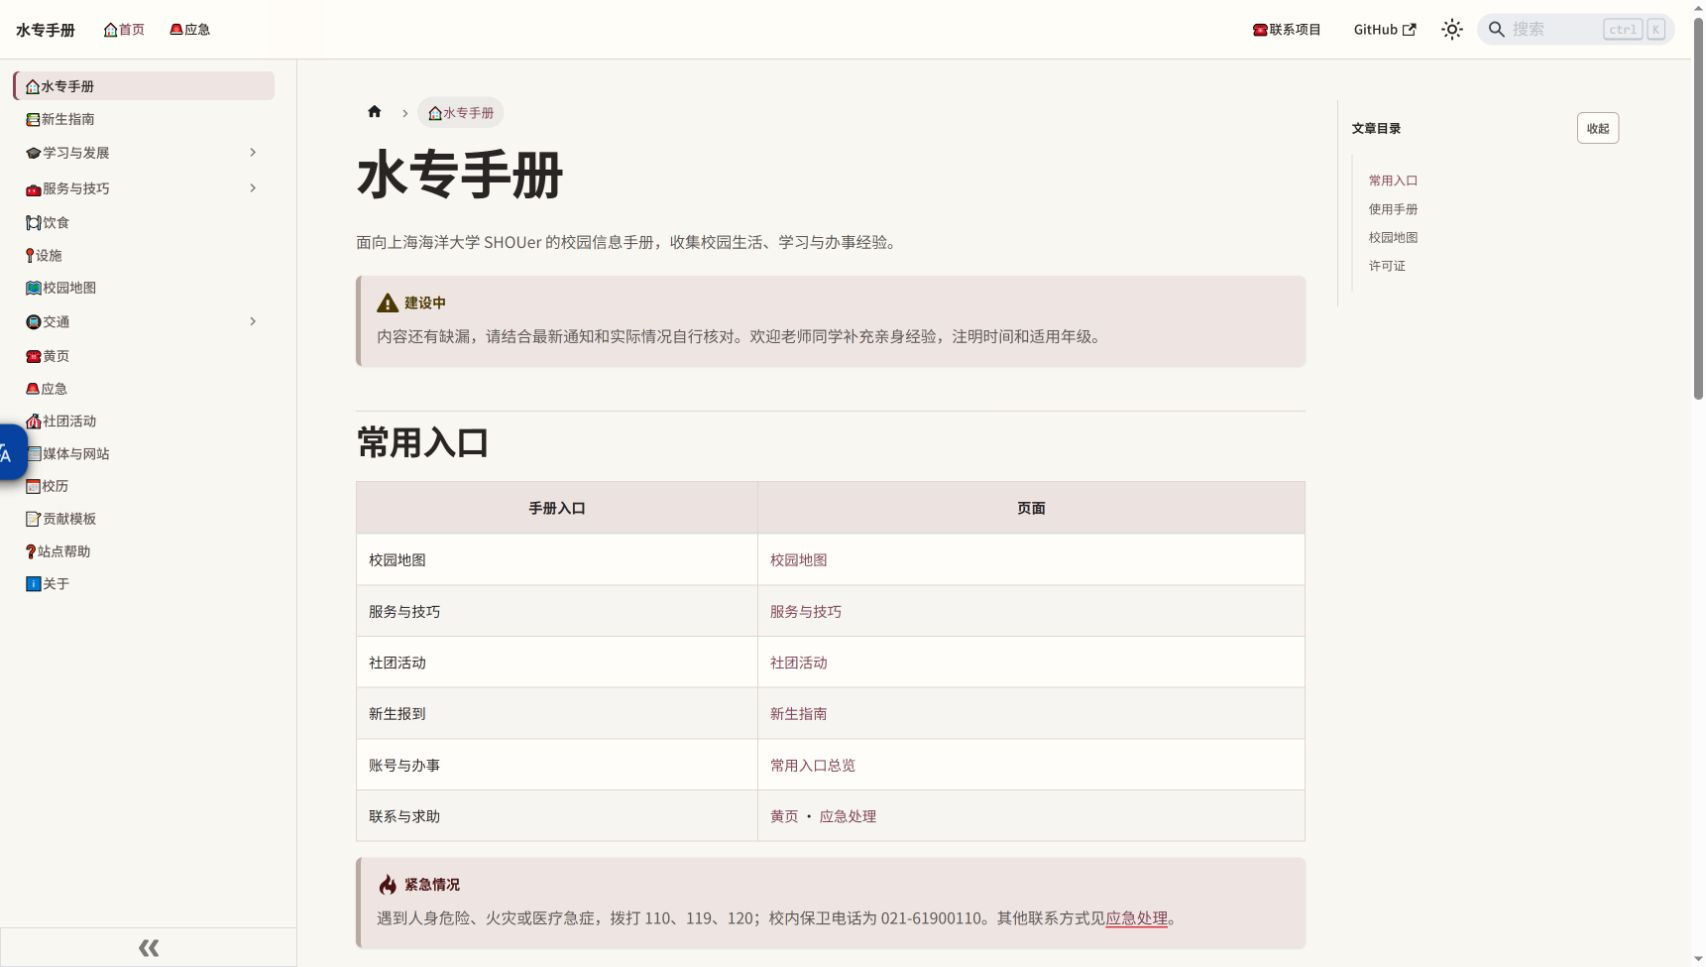
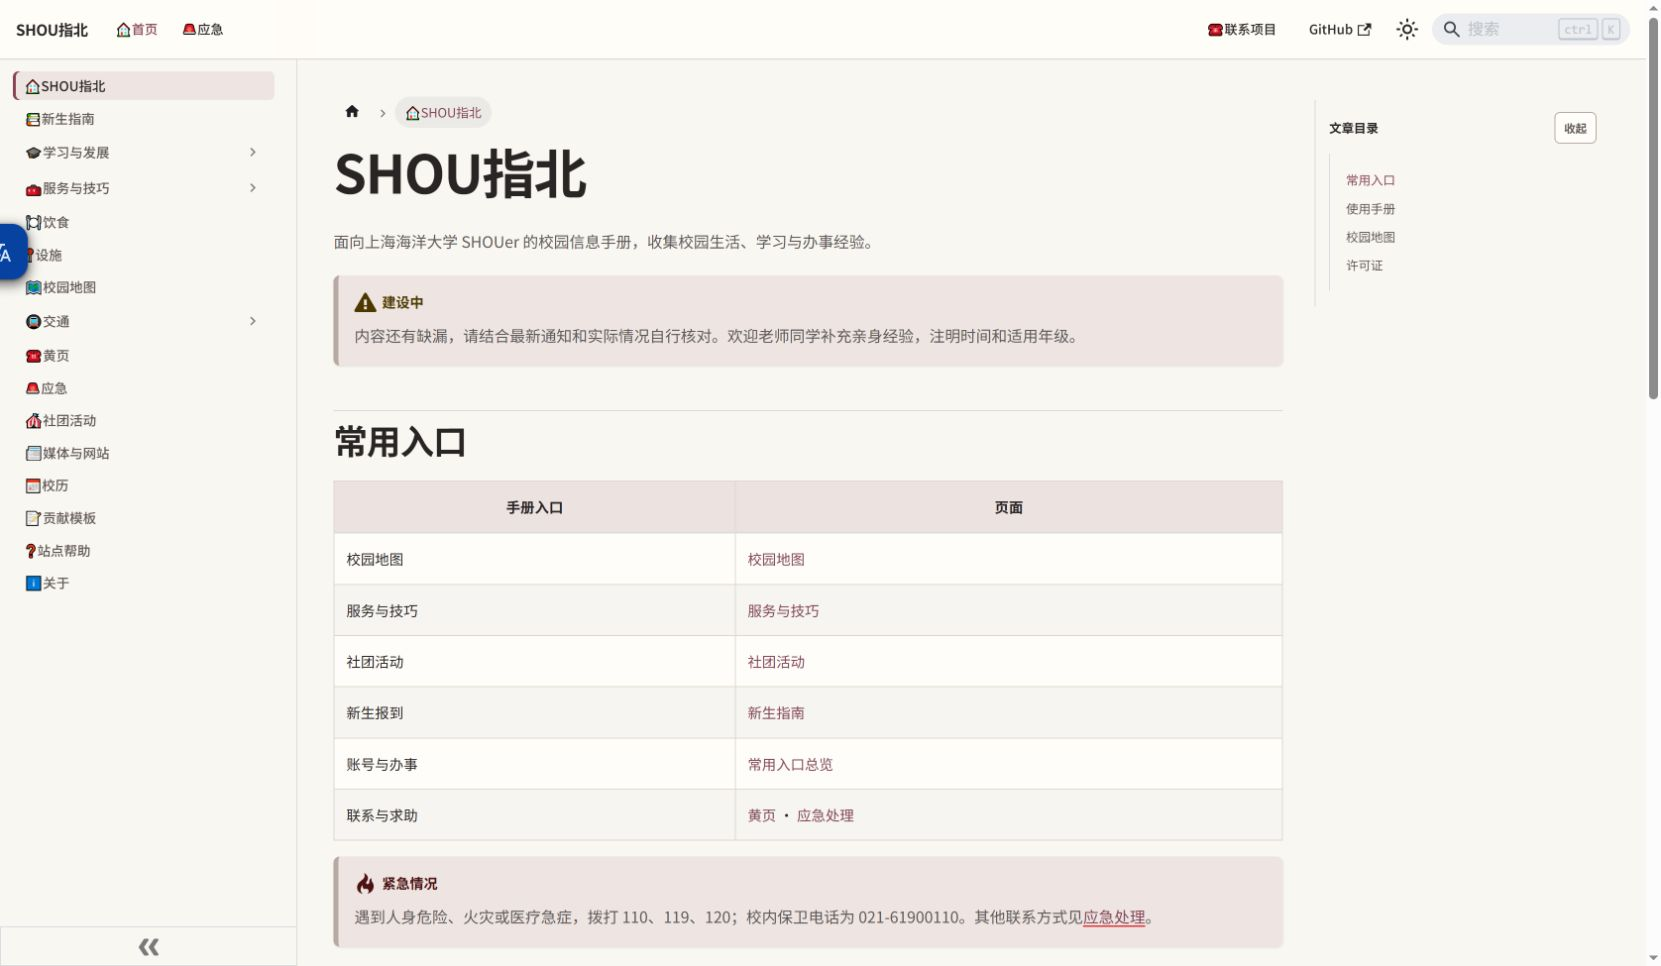
docs: 更新社团维护项目与校园网站信息

diff --git a/docusaurus.config.js b/docusaurus.config.js
@@ -129,16 +129,20 @@ const config = {
                 href: 'https://note.peteralbus.com/',
               },
               {
-                label: '水专手册',
+                label: '水专手册 · SHOU指北',
                 href: 'https://manual.shoumc.com/',
               },
               {
-                label: '今天吃什么',
+                label: '今日海大吃什么',
                 href: 'https://eat.shoumc.com/',
               },
               {
-                label: '来选课',
+                label: '来选课 · SHOU LXK',
                 href: 'https://lxk.shoumc.com/',
+              },
+              {
+                label: '社团统一账号',
+                href: 'https://auth.shoumc.com/',
               },
             ],
           },

diff --git a/sidebars.js b/sidebars.js
@@ -34,11 +34,14 @@ const sidebars = {
       collapsed: true,
       items: [
         'community/community-index',
-        'community/pcl-ce-shou',
-        'community/shou-campus',
+        'community/club-website',
         'community/shou-freshman-manual',
         'community/what-to-eat',
         'community/shou-laixk',
+        'community/shou-auth',
+        'community/pcl-ce-shou',
+        'community/shou-connect',
+        'community/shou-campus',
         'community/paper-ysm',
         'community/discord-bot',
       ],

diff --git a/docs/community/index.md b/docs/community/index.md
@@ -4,28 +4,37 @@ slug: /community
 title: 社团资源
 sidebar_label: 社团资源总览
 sidebar_position: 1
-description: 潮涌核心社成员维护或创造的插件、服务与 Minecraft 作品总览。
+description: 潮涌核心社维护的校园网站、启动器、网络工具、插件与 Minecraft 作品总览。
 ---
 
 # 社团资源
 
-这里集中收录潮涌核心社成员维护、创造或在组织中协作保存的项目，包括公开作品，以及允许对外介绍的组织内部项目。每个项目都有独立详情页，便于后续继续补充版本、截图和使用说明。
+这里集中收录潮涌核心社维护的校园网站、Minecraft 工具和作品。每个项目都有独立详情页，可以查看用途、访问方式、源码与当前限制。
 
-## 站点入口迁移
+本页于 **2026-10-15** 根据[组织公开仓库](https://github.com/orgs/Conduit-Club/repositories?type=public)及线上页面核对。源码功能与线上开放范围可能不同，下载和使用时请结合项目说明。
 
-社团主站现在使用 [shoumc.com](https://shoumc.com/)，打开后会保留路径和参数并跳转到站点页面。[www.shoumc.com](https://www.shoumc.com/) 保留为官网副本。服务器连接请优先使用 `smp.shoumc.com`、`create.shoumc.com` 和 `shou.shoumc.com`。详见[2026.10.02 域名迁移记录](../updates/2026-10-02/)。
+## 校园网站与服务
 
-常用社团服务也已统一到新域名： [今天吃什么](https://eat.shoumc.com/)、[水专手册](https://manual.shoumc.com/)、[来选课](https://lxk.shoumc.com/)、[BlueMap 地图](https://map.shoumc.com/) 和 [Artalk 评论入口](https://comments.shoumc.com/)。各项目页面会继续说明具体用途和当前状态。
+| 项目 | 用途 | 在线入口 |
+| --- | --- | --- |
+| [社团官网与服务器档案](./club-website) | 四服介绍、命令、项目资源与服务器更新 | [官网](https://www.shoumc.com/) · [文档镜像](https://wiki.shoumc.com/) |
+| [水专手册（SHOU指北）](./shou-freshman-manual) | 校园生活、学习、办事信息与交互地图 | [manual.shoumc.com](https://manual.shoumc.com/) |
+| [今日海大吃什么](./what-to-eat) | 校园及周边餐饮、随机推荐与用餐分享 | [eat.shoumc.com](https://eat.shoumc.com/) |
+| [来选课（SHOU LXK）](./shou-laixk) | 课程、教师与同学点评查询 | [lxk.shoumc.com](https://lxk.shoumc.com/) |
+| [社团统一账号](./shou-auth) | 校园服务共用的登录与账号资料入口 | [auth.shoumc.com](https://auth.shoumc.com/) |
 
-## 项目列表
+## 客户端与网络工具
 
-- [PCL-CE-SHOU 社团启动器](./pcl-ce-shou)：正在开发的 PCL-CE 社团版启动器，提供下载入口与当前登录说明。
-- [SHOU 校园还原工程](./shou-campus)：Minecraft 校园建筑与世界存档。
-- [水专手册](./shou-freshman-manual)：校园生活与常用信息指南，[在线阅读](https://manual.shoumc.com/)。
-- [今天吃什么](./what-to-eat)：校园及周边餐饮、同学评价与投稿，[在线使用](https://eat.shoumc.com/)。
-- [来选课](./shou-laixk)：由其他维护者维护的课程与教师评价服务，[访问入口](https://lxk.shoumc.com/)；社团同时维护相关分析与归档资料。
+- [SHOU-PCL 社团启动器](./pcl-ce-shou)：基于 PCL-CE 独立维护的 Windows x64 启动器，提供账户与游戏实例管理、社团入口及更新提醒。
+- [SHOUConnect](./shou-connect)：面向海大校园网络访问的图形客户端，基于 EZ4Connect 等开源项目改编；组织仓库尚无公开发行包。
+
+## Minecraft 作品与社区工具
+
+- [SHOU 校园还原工程](./shou-campus)：Minecraft 校园建筑作品与在线漫游。
 - [Paper-YSM](./paper-ysm)：Paper 服务端的 Yes Steve Model 分发原型。
 - [Discord 娱乐机器人](./discord-bot)：Discord Bot、FastAPI 控制台与 Minecraft 聊天桥。
+
+配套入口：[BlueMap 在线地图](https://map.shoumc.com/) · [Artalk 评论入口](https://comments.shoumc.com/)。服务器连接与跨服命令见[服务器总览](../../server/)，域名迁移历史见[2026.10.02 更新记录](../../updates/2026-10-02/)。
 
 ## 提交项目
 

diff --git a/docs/community/shou-laixk.md b/docs/community/shou-laixk.md
@@ -1,32 +1,37 @@
 ---
 id: shou-laixk
 slug: /community/shou-laixk
-title: 来选课
-sidebar_label: 来选课
+title: 来选课 · SHOU LXK
+sidebar_label: 来选课 · SHOU LXK
 sidebar_position: 5
-description: 上海海洋大学课程与教师评价查询入口，以及来选课结构分析与归档资料。
+description: 潮涌核心社维护的上海海洋大学课程、教师与点评网站，提供查询、统一账号登录与目录补充入口。
 ---
 
-# 来选课
+# 来选课 · SHOU LXK
 
-来选课提供上海海洋大学课程与教师评价查询，可按课程、教师等条件查找内容，参考其他同学分享的学习体验。
+SHOU LXK 是潮涌核心社维护的上海海洋大学课程评价网站，可查询课程、教师与同学点评，分享课堂体验。
 
 - **访问入口**：[lxk.shoumc.com](https://lxk.shoumc.com/)
-- **原站入口**：[lxk.aaron212.com](https://lxk.aaron212.com/)
-- **相关资料仓库**：[Conduit-Club/StructureAnalysis-shou-laixk](https://github.com/Conduit-Club/StructureAnalysis-shou-laixk)
+- **项目仓库**：[Conduit-Club/SHOU-LXK](https://github.com/Conduit-Club/SHOU-LXK)
 
-当前社团访问入口为 `lxk.shoumc.com`；登录、注册会按页面提示跳转至原站。域名迁移说明见[2026.10.02 更新记录](../../updates/2026-10-02/)。
+当前网站已提供独立的课程、教师与点评目录，并接入[社团统一账号](../shou-auth/)。旧版访问入口与认证跳转说明仅作历史记录，使用时请从上述现行入口进入。
 
 ## 使用说明
 
-![来选课首页，展示课程搜索与热门课程列表](/img/screenshots/community/laixk.jpg)
+![SHOU LXK 首页，展示最新点评与站点概览](/img/screenshots/community/laixk.jpg)
 
-*2026-10-02 在线页面实拍，课程与评价数量以当前网站为准。*
+*2026-10-15 在线页面实拍，课程与评价数量以当前网站为准。*
 
-课程、教师、搜索与分页可在社团域名下浏览。登录、注册会进入原站认证服务，认证后回到原站继续操作。
+- [课程目录](https://lxk.shoumc.com/courses)：搜索课程名或课程号，按学院、类型、教师、学分等筛选，查看授课与点评。
+- [老师目录](https://lxk.shoumc.com/teachers)：搜索姓名，查看授课信息与相关点评。
+- [全站点评](https://lxk.shoumc.com/reviews)：搜索点评标题与正文，分页阅读同学体验。
+- 登录并设置用户名后提交点评，可选择匿名或展示账号用户名与头像。
+- 补充尚未收录的课程号与教师，普通用户的目录补充由管理员核实后公开。
 
 同学评价属于个人体验，课程安排、选课要求与考核方式请以学校及任课教师发布的信息为准。
 
-## 维护与资料
+## 参与维护
 
-在线服务由其他维护者维护，社团提供访问入口并维护相关分析、归档资料。上述组织仓库记录来选课的结构分析与数据归档工作；它与在线服务的维护职责有所区别。涉及账号或在线服务的问题，请通过原站提供的渠道联系维护者；资料仓库的问题可在对应 GitHub 仓库反馈。
+代码、功能与站点问题请在 [SHOU-LXK Issues](https://github.com/Conduit-Club/SHOU-LXK/issues)反馈。课程和教师目录可通过站内补充入口提交；分享课堂体验时，请尊重不同感受，避免公开他人的私人信息。
+
+本页于 2026-10-15 根据项目公开 README 与线上首页核对，功能开放范围以当前站点为准。

diff --git a/docs/community/pcl-ce-shou.md b/docs/community/pcl-ce-shou.md
@@ -1,29 +1,37 @@
 ---
 id: pcl-ce-shou
 slug: /community/pcl-ce-shou
-title: PCL-CE-SHOU 社团启动器
-sidebar_label: PCL-CE-SHOU 启动器
+title: SHOU-PCL 社团启动器
+sidebar_label: SHOU-PCL 启动器
 sidebar_position: 2
-description: 潮涌核心社正在开发的 PCL-CE 社团启动器版本与当前登录说明。
+description: 基于 PCL-CE 独立维护的 SHOU-PCL 启动器，提供 Windows x64 下载与账户、游戏实例管理说明。
 ---
 
-# PCL-CE-SHOU 社团启动器
+# SHOU-PCL 社团启动器
 
-[PCL-CE-SHOU](https://github.com/Conduit-Club/PCL-CE-SHOU) 是潮涌核心社正在开发的 PCL-CE 社团版启动器，目前已有版本可以在 Releases 下载。
+[SHOU-PCL](https://github.com/Conduit-Club/SHOU-PCL) 是潮涌核心社基于 PCL-CE 独立维护的 Minecraft 启动器，原名 PCL-CE-SHOU。它是独立第三方版本，保留上游作者署名与许可声明。
 
-## 项目进展
+## 主要功能
 
-启动器还在开发，目前主要在改进登录方式切换和更有潮涌核心社风格的界面，其他功能也会继续加入。
+- Microsoft、MUA Union、LittleSkin 账户管理与角色切换。
+- 游戏实例管理、社团入口选择与更新日志提醒。
+- 社团首页、实景轮播、主题和在线人数显示。
 
 ## 当前下载与登录
 
-- **项目仓库**：[Conduit-Club/PCL-CE-SHOU](https://github.com/Conduit-Club/PCL-CE-SHOU)
-- **下载版本**：[Releases](https://github.com/Conduit-Club/PCL-CE-SHOU/releases)
+- **项目仓库**：[Conduit-Club/SHOU-PCL](https://github.com/Conduit-Club/SHOU-PCL)
+- **下载版本**：[最新发行版](https://github.com/Conduit-Club/SHOU-PCL/releases/latest)
 
-Java 登录 API 还需要申请。在申请完成前，Releases 中的版本只能使用 MUA Union 或 LittleSkin 登录；下载前请查看对应 Release 的说明。
+截至 2026-10-15，最新公开发行版为 [v1.1.0](https://github.com/Conduit-Club/SHOU-PCL/releases/tag/v1.1.0)。Windows x64 压缩包仍名为 `PCL-CE-SHOU-win-x64.zip`，请同时查看旁置的 SHA-256 校验文件。解压到可写目录后运行，启动器无需另装 .NET Runtime；启动 Minecraft 仍需要 Java。
+
+该发行说明已确认 LittleSkin 与 MUA 密码登录可用，账户刷新、令牌刷新、角色切换和游戏启动尚未完成全量真实服务联调。源码中的账户管理功能不代表所有登录方式均已实测，使用前请阅读对应发行说明。
 
 服务器登录和认证地址说明见 [Velocity 登录与认证说明](../../servers/velocity/)。在 Minecraft 多人游戏中添加服务器时，推荐使用新的 `smp.shoumc.com`、`create.shoumc.com` 或 `shou.shoumc.com` 入口。
 
 ## 反馈与版本变化
 
 构建、下载和已知问题请在 GitHub 仓库查看。遇到登录失败时，请先确认启动器版本和所选认证服务，再提交问题。
+
+## 来源与许可
+
+上游为 [PCL-Community/PCL-CE](https://github.com/PCL-Community/PCL-CE)。项目对启动器目录与其他目录分别保留 PCL 分发有限许可、Apache License 2.0 等声明，具体范围以仓库中的许可文件为准。

diff --git a/README.md b/README.md
@@ -41,33 +41,20 @@
 | --- | --- | --- | --- |
 | [www.shoumc.com](https://www.shoumc.com/) | [wiki.shoumc.com](https://wiki.shoumc.com/) | [conduit-club.github.io](https://conduit-club.github.io/) | [Discord](https://discord.gg/knvDenYF5Y) |
 
-## 海大校园资源
+## 社团项目与网站
 
-### 水专手册
+| 项目 | 公开入口 | 源码 |
+| --- | --- | --- |
+| 水专手册 · SHOU指北 | [在线阅读](https://manual.shoumc.com/) | [SHOU-Online-Manual](https://github.com/Conduit-Club/SHOU-Online-Manual) |
+| 今日海大吃什么 | [餐饮指南](https://eat.shoumc.com/) | [SHOU-What-To-Eat](https://github.com/Conduit-Club/SHOU-What-To-Eat) |
+| 来选课 · SHOU LXK | [课程评价](https://lxk.shoumc.com/) | [SHOU-LXK](https://github.com/Conduit-Club/SHOU-LXK) |
+| 社团统一账号 | [账号中心](https://auth.shoumc.com/) | — |
+| SHOU-PCL 社团启动器 | [发行版下载](https://github.com/Conduit-Club/SHOU-PCL/releases/latest) | [SHOU-PCL](https://github.com/Conduit-Club/SHOU-PCL) |
+| SHOUConnect | [项目说明](https://www.shoumc.com/community/shou-connect/) | [SHOUConnect](https://github.com/Conduit-Club/SHOUConnect) |
+| Paper-YSM | [插件介绍](https://www.shoumc.com/community/paper-ysm/) | [YSM_Paper_Plugin](https://github.com/Conduit-Club/YSM_Paper_Plugin) |
+| Discord 娱乐机器人 | [项目介绍](https://www.shoumc.com/community/discord-bot/) | [Discord_Bot](https://github.com/Conduit-Club/Discord_Bot) |
 
-校园生活与学习资料，供新同学查阅，也由同学持续补充。
-
-[阅读手册](https://manual.shoumc.com/) · [项目仓库](https://github.com/Conduit-Club/SHOU-Online-Manual)
-
-[![水专手册在线页面](assets/img/screenshots/community/manual.jpg)](https://manual.shoumc.com/)
-
-### 今日海大吃什么
-
-查找校园与周边餐饮，浏览店铺与餐品，分享自己的用餐推荐。
-
-[今天吃什么](https://eat.shoumc.com/) · [项目仓库](https://github.com/Conduit-Club/what-to-eat-in-shou-today-done-right)
-
-[![今日海大吃什么在线页面](assets/img/screenshots/community/eat.jpg)](https://eat.shoumc.com/)
-
-### 来选课
-
-查询课程与教师评价。在线服务由其他维护者维护，社团提供访问入口与相关分析、归档资料；登录和注册进入原站认证。
-
-[查找课程](https://lxk.shoumc.com/) · [原站](https://lxk.aaron212.com/) · [相关资料仓库](https://github.com/Conduit-Club/StructureAnalysis-shou-laixk)
-
-[![来选课在线页面](assets/img/screenshots/community/laixk.jpg)](https://lxk.shoumc.com/)
-
-校园资源截图拍摄于 2026-10-02，内容以各网站当前页面为准。图片来源说明见 [图片索引](assets/img/README.md)。
+项目用途、维护状态、使用限制与公开页面实拍统一维护在[社团资源文档](https://www.shoumc.com/community/)。
 
 ---
 

diff --git a/docs/intro.md b/docs/intro.md
@@ -62,7 +62,7 @@ hide_table_of_contents: true
 
 服务器是社团成员共同游玩和创作的空间：有人在 SMP 生存服持续建设，有人在 Create 创造建筑服打磨作品，也有人把校园与记忆留在 SHOU 建筑展示服中。
 
-社团开发则服务于这些真实需求。我们维护服务器插件、Discord 机器人、模型分发实验和网站文档，让已经解决的问题可以被记录、复用和继续改进。
+社团开发则服务于这些真实需求。我们维护 SHOU-PCL 启动器、SHOUConnect 网络工具、服务器插件、Discord 机器人和网站文档，也为海大同学维护水专手册、餐饮指南与课程评价网站。
 
 这里不是一张只展示结果的宣传页。服务器规则、项目进度与每次更新都会留下清楚的文档，方便新成员了解，也方便后来者接续维护。
 
@@ -70,10 +70,10 @@ hide_table_of_contents: true
 
 社团主站现在使用 [shoumc.com](https://shoumc.com/)，打开后会保留路径和参数并 301 跳转到 `conduit-club.github.io`。[www.shoumc.com](https://www.shoumc.com/) 保留为 Cloudflare Pages 官网副本。
 
-连接服务器时请优先使用 `smp.shoumc.com`、`create.shoumc.com` 或 `shou.shoumc.com`。社团配套入口包括：[今天吃什么](https://eat.shoumc.com/)、[水专手册](https://manual.shoumc.com/)、[来选课](https://lxk.shoumc.com/) 和 [BlueMap 在线地图](https://map.shoumc.com/)；评论服务可打开 [Artalk 评论入口](https://comments.shoumc.com/)。详见[本次迁移记录](./updates/2026-10-02/)。
+连接服务器时请优先使用 `smp.shoumc.com`、`create.shoumc.com` 或 `shou.shoumc.com`。社团配套入口包括：[今日海大吃什么](https://eat.shoumc.com/)、[水专手册（SHOU指北）](https://manual.shoumc.com/)、[来选课（SHOU LXK）](https://lxk.shoumc.com/)、[社团统一账号](https://auth.shoumc.com/)和 [BlueMap 在线地图](https://map.shoumc.com/)；评论服务可打开 [Artalk 评论入口](https://comments.shoumc.com/)。项目介绍与源码见[社团资源](./community/)，域名迁移历史见[2026.10.02 更新记录](./updates/2026-10-02/)。
 
 ## 从这里开始
 
 - 想加入游戏网络，请先查看 [服务器介绍](./server/)。
-- 想了解插件、机器人和校园作品，请前往 [社团资源](./community/)。
+- 想了解校园网站、启动器、网络工具、插件和作品，请前往 [社团资源](./community/)。
 - 想确认最近上线的内容，请查看 [服务器更新日志](./updates/)。

diff --git a/docs/community/club-website.md b/docs/community/club-website.md
@@ -1,0 +1,32 @@
+---
+slug: /community/club-website
+title: 社团官网与服务器档案
+sidebar_label: 社团官网与服务器档案
+description: 潮涌核心社 Docusaurus 中文站点、公开访问入口与内容贡献方式。
+---
+
+# 社团官网与服务器档案
+
+本站是潮涌核心社维护的 Minecraft 中文文档站，使用 Docusaurus，集中记录四服网络、玩家命令、社团项目与已确认的服务器更新。
+
+## 公开入口
+
+- [官网：www.shoumc.com](https://www.shoumc.com/)
+- [文档镜像：wiki.shoumc.com](https://wiki.shoumc.com/)
+- [GitHub Pages：conduit-club.github.io](https://conduit-club.github.io/)
+- [源码：Conduit-Club.github.io](https://github.com/Conduit-Club/Conduit-Club.github.io)
+
+站内链接保留当前访问域名，内容以 Markdown 为主，便于成员直接维护。
+
+## 可以查阅什么
+
+- [服务器总览](../../server/)与 Velocity、SMP、Create、SHOU 各服详情。
+- [社团资源](../)：校园网站、客户端、插件与作品。
+- [服务器更新日志](../../updates/)：已确认的公告与历史变更。
+- [BlueMap 在线地图](https://map.shoumc.com/)：浏览已开放的世界地图。
+
+## 参与维护
+
+在[仓库 Issues](https://github.com/Conduit-Club/Conduit-Club.github.io/issues)反馈错误或提交 Pull Request。详细内容在 `docs/` 下维护；事实变更请提供来源，新增项目请附公开入口、用途与维护信息。
+
+本站源码的许可见仓库 [LICENSE](https://github.com/Conduit-Club/Conduit-Club.github.io/blob/main/LICENSE)。图片、校园作品及链接项目遵循各自的来源与许可声明。

diff --git a/docs/community/shou-connect.md b/docs/community/shou-connect.md
@@ -1,0 +1,28 @@
+---
+slug: /community/shou-connect
+title: SHOUConnect 校园网络工具
+sidebar_label: SHOUConnect 网络工具
+description: 基于 EZ4Connect 等开源项目改编的海大校园网络图形客户端与当前发行状态。
+---
+
+# SHOUConnect 校园网络工具
+
+[SHOUConnect](https://github.com/Conduit-Club/SHOUConnect) 是面向上海海洋大学校园网络访问的图形客户端，基于 EZ4Connect、ZJU-Connect 和 EasierConnect 改编，保留上游来源与第三方组件声明。
+
+## 项目用途
+
+- 通过图形界面配置校园网络连接与账号。
+- 提供 EasyConnect 与 aTrust 相关连接能力。
+- 提供代理设置与分流使用说明，具体支持范围以项目文档为准。
+
+校园网络账号、访问权限与学校服务的开放规则仍以校方要求为准。
+
+## 当前发行状态
+
+截至 **2026-10-15**，组织仓库的 [Releases](https://github.com/Conduit-Club/SHOUConnect/releases) 尚无公开发行包。README 中部分下载链接与徽章仍指向 EZ4Connect 上游，不能据此视为 SHOUConnect 已发布的安装包。
+
+需要使用或构建时，请先查看组织仓库的当前说明，并通过 [Issues](https://github.com/Conduit-Club/SHOUConnect/issues)确认适用平台与已知问题。
+
+## 来源与许可
+
+项目以 GNU GPL v3 发布，第三方组件遵循各自许可证。源码、架构与高级使用说明均在[公开仓库](https://github.com/Conduit-Club/SHOUConnect)维护。

diff --git a/docs/community/shou-campus.md b/docs/community/shou-campus.md
@@ -4,22 +4,22 @@ slug: /community/shou-campus
 title: SHOU 校园还原工程
 sidebar_label: SHOU 校园还原工程
 sidebar_position: 2
-description: 上海海洋大学校园 Minecraft 还原作品与世界存档介绍。
+description: 上海海洋大学校园 Minecraft 还原作品与游戏内、在线地图参观入口。
 ---
 
 # SHOU 校园还原工程
 
-[SHOU-Campus-Recreation-in-MC](https://github.com/Conduit-Club/SHOU-Campus-Recreation-in-MC) 是上海海洋大学校园 Minecraft 还原项目的精简存档仓库，提供压缩后的世界存档、鸣谢和作品使用说明。
+SHOU 校园还原工程以 Minecraft 建筑记录上海海洋大学校园，可在 SHOU 建筑展示服中参观，也可通过 BlueMap 在线漫游。
 
 ## 项目信息
 
 | 项目 | 内容 |
 | --- | --- |
-| 类型 | Minecraft 建筑与世界存档 |
-| 仓库状态 | 组织协作仓库（Fork） |
-| 许可 | 仓库 README 标注为 CC BY-NC-SA 4.0 |
+| 类型 | Minecraft 校园建筑作品 |
+| 参观方式 | SHOU 建筑展示服、BlueMap 在线地图 |
+| 存档下载 | 截至 2026-10-15，尚无可核验的公开下载入口 |
 
-公开使用、转载或进行二次创作前，请先阅读仓库中的完整许可和使用规则。
+如需获取存档、转载或进行二次创作，请先向维护者确认可公开的版本与授权范围。
 
 ## 站内参观
 
